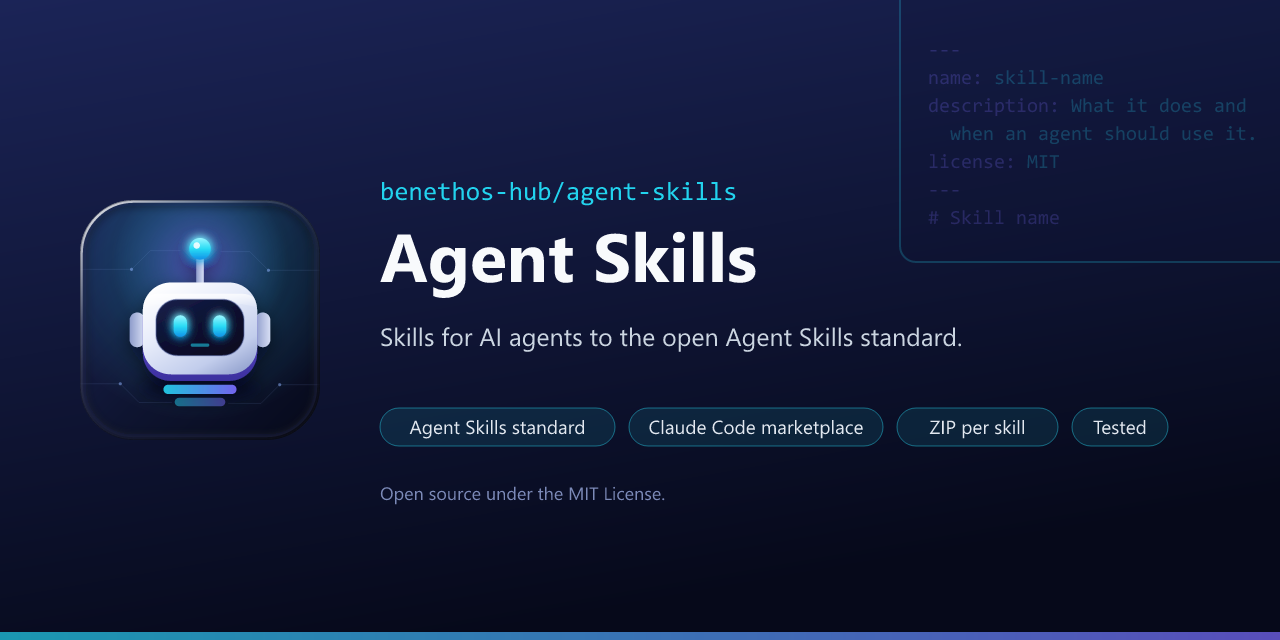
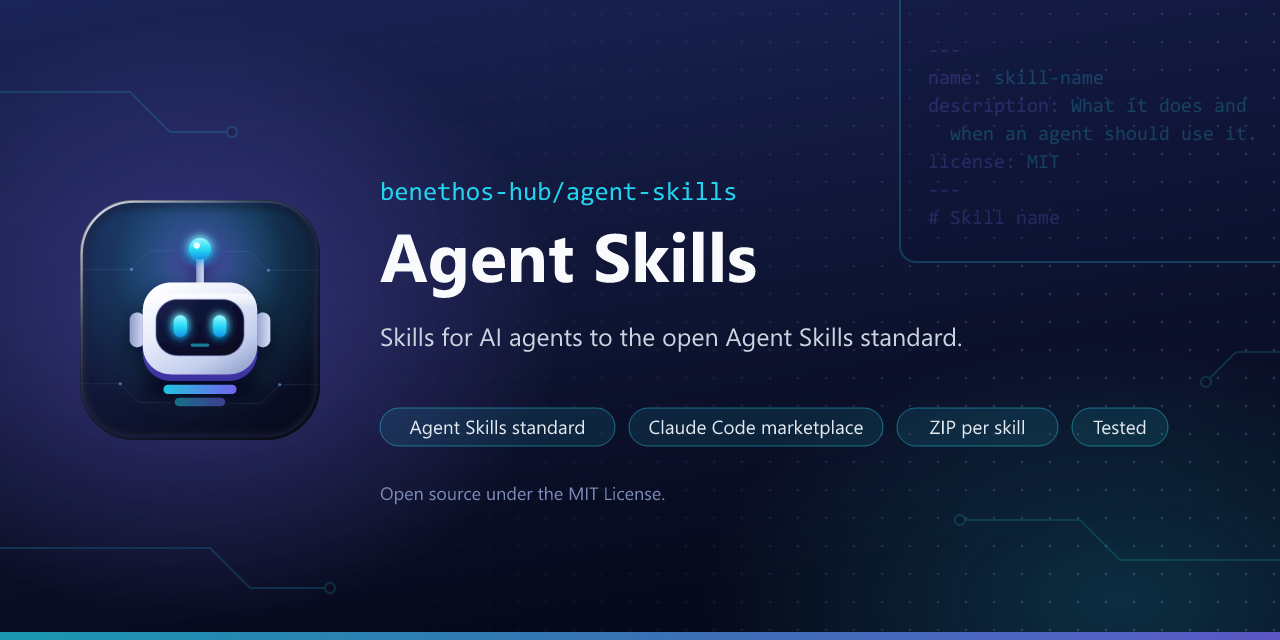
Give the social preview a patterned ground
Three faint layers behind everything: circuit traces with nodes like
the ones in the icon, kept to the edges and away from the text, a
violet glow behind the icon and a cyan one at the bottom right, and a
dot grid that fades out to the left.

diff --git a/assets/render_brand.py b/assets/render_brand.py
@@ -52,6 +52,7 @@ PREVIEW = """\
     </linearGradient>
   </defs>
   <rect width="1280" height="640" fill="url(#sp-bg)"/>
+  {pattern}
   <rect x="0" y="632" width="1280" height="8" fill="url(#sp-line)" opacity="0.7"/>
   {backdrop}
   {icon}
@@ -101,6 +102,52 @@ def _chips(x: int, y: int) -> str:
     return "".join(parts)
 
 
+# Circuit traces like the ones in the icon, kept to the edges and away from
+# the text. Each is a list of points, the last one gets a node.
+TRACES = (
+    ((0, 92), (130, 92), (170, 132), (232, 132)),
+    ((0, 548), (210, 548), (250, 588), (330, 588)),
+    ((1280, 560), (1120, 560), (1080, 520), (960, 520)),
+    ((1280, 352), (1236, 352), (1206, 382)),
+)
+
+
+def _pattern() -> str:
+    """The ground behind everything: two soft glows, a dot grid fading out
+    to the left and a few circuit traces at the edges."""
+    defs = (
+        "<defs>"
+        '<radialGradient id="pt-violet" cx="0.5" cy="0.5" r="0.5">'
+        '<stop offset="0" stop-color="#7C6BFF" stop-opacity="0.35"/>'
+        '<stop offset="1" stop-color="#7C6BFF" stop-opacity="0"/></radialGradient>'
+        '<radialGradient id="pt-cyan" cx="0.5" cy="0.5" r="0.5">'
+        '<stop offset="0" stop-color="#22D3EE" stop-opacity="0.18"/>'
+        '<stop offset="1" stop-color="#22D3EE" stop-opacity="0"/></radialGradient>'
+        '<pattern id="pt-dots" width="28" height="28" patternUnits="userSpaceOnUse">'
+        '<circle cx="14" cy="14" r="1.4" fill="#A5B4FC"/></pattern>'
+        '<linearGradient id="pt-fade" x1="0" y1="0" x2="1" y2="0">'
+        '<stop offset="0.25" stop-color="#FFFFFF" stop-opacity="0"/>'
+        '<stop offset="1" stop-color="#FFFFFF" stop-opacity="1"/></linearGradient>'
+        '<mask id="pt-mask"><rect width="1280" height="640" fill="url(#pt-fade)"/></mask>'
+        "</defs>"
+    )
+    glows = (
+        '<ellipse cx="200" cy="320" rx="360" ry="300" fill="url(#pt-violet)"/>'
+        '<ellipse cx="1120" cy="600" rx="420" ry="260" fill="url(#pt-cyan)"/>'
+    )
+    dots = '<rect width="1280" height="640" fill="url(#pt-dots)" opacity="0.22" mask="url(#pt-mask)"/>'
+    traces = ['<g fill="none" stroke="#22D3EE" stroke-width="2" opacity="0.16">']
+    for points in TRACES:
+        line = " ".join(f"{x},{y}" for x, y in points)
+        end_x, end_y = points[-1]
+        traces.append(
+            f'<polyline points="{line}"/>'
+            f'<circle cx="{end_x}" cy="{end_y}" r="5" fill="#06091A"/>'
+        )
+    traces.append("</g>")
+    return defs + glows + dots + "".join(traces)
+
+
 def _backdrop(x: int, bottom: int, width: int, opacity: float) -> str:
     """The editor window with the SKILL.md head, faint enough to read past.
 
@@ -146,6 +193,7 @@ def render(svg: str, width: int, height: int, target: Path) -> None:
 def main() -> None:
     render(ICON_SVG.read_text(encoding="utf-8"), ICON_SIZE, ICON_SIZE, ICON_PNG)
     preview = PREVIEW.format(
+        pattern=_pattern(),
         backdrop=_backdrop(900, 262, 440, 0.22),
         icon=_icon(80, 200, 240),
         chips=_chips(380, 408),
